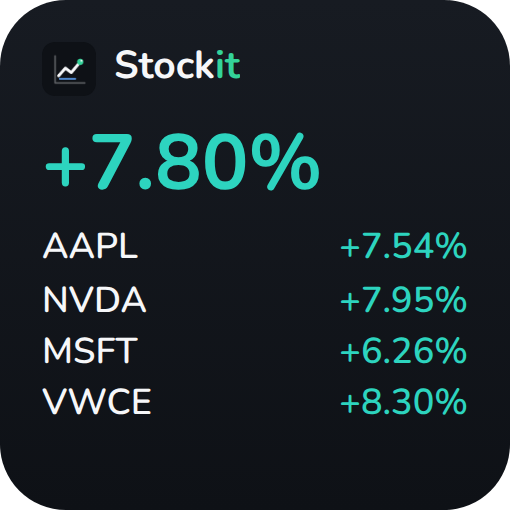
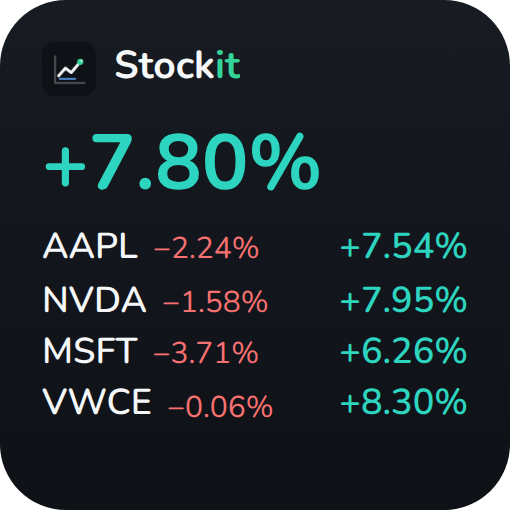
Stockit 1.23.0: the month's change beside each widget ticker

diff --git a/Stockit.js b/Stockit.js
@@ -30,7 +30,7 @@
  */
 
 // This build's version. When releasing, bump it and add a matching entry to releases.json.
-const VERSION = '1.22.0';
+const VERSION = '1.23.0';
 const APP_ID = 'stockit';   // unique per app, never changes
 const REPO_RAW = 'https://raw.githubusercontent.com/gadominas/StockIt/main/';
 const SCRIPT_FILE = 'Stockit.js';   // the script's file name in the repository
@@ -275,7 +275,7 @@ const write = (n, v) => {
 
 // Defaults first, saved choices on top. Loaded here, before the app and widget branches.
 const settings = Object.assign(
-  { tab: "own", sort: "value", range: "1y", addTo: "watch", flashFold: {}, ideasFold: {}, insiders: true, checkIntro: 0, aiStrat: true, privacy: false, briefSeen: 0,   // briefSeen: the briefing you've moved on from, shown folded   // privacy: your amounts hidden, for showing the app to someone   // aiStrat: suggested strategies refresh on their own    // remembered picks; flashFold: symbol → newest headline time when folded
+  { tab: "own", sort: "value", range: "1y", addTo: "watch", flashFold: {}, ideasFold: {}, insiders: true, widgetTrend: "1m",   // widgetTrend: the longer change beside each widget ticker (1w, 2w, 1m, 3m, off) checkIntro: 0, aiStrat: true, privacy: false, briefSeen: 0,   // briefSeen: the briefing you've moved on from, shown folded   // privacy: your amounts hidden, for showing the app to someone   // aiStrat: suggested strategies refresh on their own    // remembered picks; flashFold: symbol → newest headline time when folded
     refreshOnOpen: true, widgetMoney: false, homeCur: "auto",   // homeCur: the currency your money is shown in (auto: your biggest holdings')                                    // Portfolio
     newsYahoo: true, newsWeb: true, crowd: true,                                // News and signals
     style: "balanced",                                                          // AI advice: cautious, balanced, adventurous
@@ -1906,7 +1906,7 @@ function clientState() {
       theme: settings.theme, density: settings.density, font: settings.font, textSize: settings.textSize,
       speechEngine: settings.speechEngine || "device", voiceURI: settings.voiceURI || "", voiceRate: settings.voiceRate || 1, voicePitch: settings.voicePitch || 1,
       voiceGender: settings.voiceGender || "all", ttsModel: settings.ttsModel || "gpt-4o-mini-tts", ttsVoice: settings.ttsVoice || "coral",
-      ttsInstructions: settings.ttsInstructions || "", hasOpenAI: !!keyFor("openai"), shareUsage: !!settings.shareUsage, openInReader: settings.openInReader !== false, readerProxy: settings.readerProxy !== false, insiders: settings.insiders !== false, quiverErr: settings.quiverErr || "", flashFold: settings.flashFold || {}, ideasFold: settings.ideasFold || {}, checkIntro: settings.checkIntro || 0, aiStrat: settings.aiStrat !== false, privacy: !!settings.privacy, briefSeen: settings.briefSeen || 0,
+      ttsInstructions: settings.ttsInstructions || "", hasOpenAI: !!keyFor("openai"), shareUsage: !!settings.shareUsage, openInReader: settings.openInReader !== false, readerProxy: settings.readerProxy !== false, insiders: settings.insiders !== false, widgetTrend: settings.widgetTrend || "1m", quiverErr: settings.quiverErr || "", flashFold: settings.flashFold || {}, ideasFold: settings.ideasFold || {}, checkIntro: settings.checkIntro || 0, aiStrat: settings.aiStrat !== false, privacy: !!settings.privacy, briefSeen: settings.briefSeen || 0,
     },
     ttsModels: settings.ttsModels || null,
     lastRefresh: settings.lastRefresh, palettes: PALETTES, version: VERSION,
@@ -2025,10 +2025,11 @@ async function handle(m) {
       if (m.k === "flashFold" && m.v && typeof m.v === "object" && !Array.isArray(m.v))   // folded Flash cards, kept for stocks you follow
         settings.flashFold = Object.fromEntries(Object.entries(m.v).filter(([s, t]) => stocks.some(x => x.s === s) && isFinite(t)));
       if (m.k === "homeCur" && (m.v === "auto" || HOME_CURS.includes(m.v))) settings.homeCur = m.v;
+      if (m.k === "widgetTrend") settings.widgetTrend = ["1w", "2w", "1m", "3m", "off"].includes(m.v) ? m.v : "1m";
       if (m.k === "checkIntro" && isFinite(m.v)) settings.checkIntro = Math.max(0, Math.min(99, +m.v));
       write("settings", settings);
       if (m.k === "homeCur") { await loadFx().catch(() => {}); push(); }
-      if (m.k === "widgetMoney" || m.k === "homeCur" || m.k === "privacy") saveWidget(widgetSnapshot());
+      if (m.k === "widgetMoney" || m.k === "homeCur" || m.k === "privacy" || m.k === "widgetTrend") saveWidget(widgetSnapshot());
       return;
     case "cfg": {
       if (m.k === "*") settings.cfg = {}; else setCfg(m.k, m.v);
@@ -3321,6 +3322,8 @@ function clientApp() {
       <div class="srow"><div class="grow"><b>Show your money in</b><small class="muted">Portfolio value, today and gains, here and in the widget. Stocks in other currencies are converted at today's rate. ${S.fx && S.fx.choice === "auto" ? `Auto uses the currency most of your money is in (now ${esc(HOME())}).` : ""}</small></div>
         <select id="homeCur" class="cursel" aria-label="Currency">${[["auto", "Auto"]].concat(((S.fx && S.fx.curs) || []).map(c2 => [c2, c2])).map(([v, l]) => `<option value="${v}" ${(S.fx && S.fx.choice) === v ? "selected" : ""}>${l}</option>`).join("")}</select></div>
       ${sw("widgetMoney", "Show portfolio value in the widget", "Off: the widget shows only percentages, never amounts")}
+      <div class="lk-row"><span class="lk-l">Beside each widget ticker</span><div class="seg wide">${[["1w", "1 week"], ["2w", "2 weeks"], ["1m", "1 month"], ["3m", "3 months"], ["off", "Off"]].map(([v, l]) => `<button class="${(S.settings.widgetTrend || "1m") === v ? "on" : ""}" data-act="wtrend" data-v="${v}">${l}</button>`).join("")}</div>
+        <small class="muted">The change over this time, small, next to today's change. The widget shows it at its next refresh.</small></div>
       ${widgetPicksHTML()}
       <h3 class="sec">News and signals</h3>
       ${sw("newsYahoo", "Yahoo Finance headlines", "Business news about each stock")}
@@ -4264,6 +4267,7 @@ function clientApp() {
     switch (act) {
       case "tab": arrange = false; if (tab === "own" && v !== "own" && S.briefing && S.settings.briefSeen !== S.briefing.at) { S.settings.briefSeen = S.briefing.at; send("set", { k: "briefSeen", v: S.briefing.at }); } if (v !== "own") { briefFold = null; briefFull = false; } tab = v; if (v !== "ideas") send("set", { k: "tab", v }); else if (S.settings.hasKey) send("stratdue", {}); render(); window.scrollTo(0, 0); break;
       case "sort": sort = v; send("set", { k: "sort", v }); render(); break;
+      case "wtrend": S.settings.widgetTrend = v; send("set", { k: "widgetTrend", v }); renderCfg(); break;
       case "arrange": if (v === "1") startArrange(); else { arrange = false; render(); } break;
       case "mark": { const y = byS(v), k = t.dataset.k; if (!y) break; y[k] = !y[k]; send("mark", { s: v, k, v: y[k] }); if (openSym) renderDetail(); render(); window.toast(k === "pin" ? (y[k] ? `${v} pinned to the top` : `${v} unpinned`) : k === "wpin" ? (y[k] ? `${v} is on the widget` : `${v} left the widget`) : (y[k] ? `${v} highlighted` : `${v} highlight removed`)); break; }
       case "refresh": if (!progress) send("refresh", { force: true }); break;
@@ -5198,11 +5202,21 @@ window.__boot = function (st) {
 // ---------- home-screen widget: Stockit's content for the shared frame below ----------
 // The snapshot the widget reads (saveWidget): the day's move, biggest movers, the ✦ briefing headline, and the
 // portfolio value only when "Show portfolio value in the widget" is on. Saved after refreshes, edits and new AI text.
+// The longer change shown beside each widget ticker: since the close about this many calendar days ago
+const WTREND = { "1w": [7, "1W"], "2w": [14, "2W"], "1m": [30, "1M"], "3m": [91, "3M"], off: null };
+function changeOver(m, t) {
+  const p = (m && m.pts) || [];
+  if (!t || p.length < 2) return null;
+  const price = m.price != null ? m.price : p[p.length - 1][1], lastDay = p[p.length - 1][0];
+  let v = null;
+  for (const [d, c] of p) { if (d <= lastDay - t[0]) v = c; else break; }
+  return v ? (price / v - 1) * 100 : null;
+}
 function widgetSnapshot(pricesAt) {
   const tot = totals()[0] || null;
   const all = stocks.map(x => {
     const m = market[x.s] || {}, sg = sigFor(x.s);
-    return { s: x.s, own: x.list === "own", chg: dayPct(m), price: m.price, cur: m.cur || "", sig: sg ? sg.signal : "", wpin: !!x.wpin };
+    return { s: x.s, own: x.list === "own", chg: dayPct(m), price: m.price, cur: m.cur || "", sig: sg ? sg.signal : "", wpin: !!x.wpin, tr: changeOver(m, WTREND[settings.widgetTrend || "1m"]) };
   });
   const rows = all.filter(r => r.chg != null);
   const own = rows.filter(r => r.own), base = own.length ? own : rows;
@@ -5216,6 +5230,7 @@ function widgetSnapshot(pricesAt) {
     value: tot && settings.widgetMoney && !settings.privacy ? { v: tot.value, day: tot.day, cur: tot.cur } : null,   // privacy mode hides it here too
     movers: (pinned.length ? pinned : best).slice(0, 8),
     pick: pinned.length ? "pinned" : own.length ? "best-own" : "best-watch",
+    trendLabel: (WTREND[settings.widgetTrend || "1m"] || [])[1] || "",
     private: !!settings.privacy,   // privacy mode (the eye, or a Back Tap shortcut): amounts hidden on the widget too
     headline: b && Date.now() - b.at < 48 * 3600e3 ? b.headline : "",
     prices: pricesAt || settings.lastRefresh || 0,
@@ -5247,11 +5262,12 @@ async function widgetModel(param, family) {
   const hide = d.private || /priv|hide|mask/i.test(String(param || ""));
   const cells = (d.movers || []).map(r => ({ s: r.s.replace(/\.(DE|F|L|PA|AS|MI|TO|V|SW|ST|OL|CO|HE|VI|BR|MC|LS|T|HK|AX)$/, "").slice(0, 8),
     pct: wPct(r.chg), tone: tone(r.chg), price: r.price != null ? (MINOR[r.cur] ? r.price.toFixed(2) + "p" : wMoney(r.price, r.cur)) : "",
-    sig: r.sig ? r.sig[0].toUpperCase() + r.sig.slice(1) : "" }));
+    sig: r.sig ? r.sig[0].toUpperCase() + r.sig.slice(1) : "", tr: r.tr != null && d.trendLabel ? wPct(r.tr) : "", trTone: tone(r.tr) }));
   const kicker = d.scope === "own" ? "Your portfolio today" : "Your watchlist today";
-  const footer = d.prices ? "Prices " + wWhen(d.prices) : "";
+  let footer = d.prices ? "Prices " + wWhen(d.prices) : "";
   const accessory = { glyph: d.dayPct >= 0 ? "▲" : "▼", inline: `${d.dayPct >= 0 ? "▲" : "▼"} ${wPct(d.dayPct)} today`, value: d.dayPct == null ? "–" : (d.dayPct >= 0 ? "+" : "") + d.dayPct.toFixed(1) };
-  const pickNote = d.pick === "pinned" ? "Your widget stocks" : d.pick === "best-own" ? "Best today" : "Best on your watchlist";
+  const pickNote = (d.pick === "pinned" ? "Your widget stocks" : d.pick === "best-own" ? "Best today" : "Best on your watchlist") + (d.trendLabel ? ` · ${d.trendLabel} and today` : "");
+  if (d.trendLabel && cells.some(c => c.tr)) footer += `  ·  small: ${({ "1W": "1 week", "2W": "2 weeks", "1M": "1 month", "3M": "3 months" })[d.trendLabel]}`;
   const headline = d.headline && family === "large" ? d.headline : "";
   if (d.value && !hide) {
     return { badge: wPct(d.dayPct), badgeTone: tone(d.dayPct), kicker, value: wMoney(d.value.v, d.value.cur, true),
@@ -5454,6 +5470,7 @@ function wCell(stack, c, o) {
   if (o.width) row.size = new Size(o.width, o.h || 0);
   wText(row, c.s, o.size, 'semi', 'ink');
   if (o.price && c.price) { row.addSpacer(6); wText(row, c.price, o.size - 1.5, 'reg', 'muted'); }
+  if (c.tr) { row.addSpacer(o.price ? 8 : 5); wText(row, c.tr, o.size - 2, 'reg', c.trTone); }   // the longer change, smaller
   row.addSpacer();
   if (o.sig && c.sig) { wText(row, '✦ ' + c.sig, o.size - 1.5, 'reg', 'muted'); row.addSpacer(8); }
   wText(row, c.pct, o.size, 'semi', c.tone);

diff --git a/README.md b/README.md
@@ -10,7 +10,7 @@ Your stocks, the news around them and a plain-English story of what's going on.<
 
 An iPhone and iPad app for [Scriptable](https://scriptable.app). One file. No account, no server, no subscription.
 
-[![Version](https://img.shields.io/badge/version-1.22.0-1d4ed8)](CHANGELOG.md)
+[![Version](https://img.shields.io/badge/version-1.23.0-1d4ed8)](CHANGELOG.md)
 [![Platform](https://img.shields.io/badge/iOS-Scriptable-0f172a)](https://apps.apple.com/app/scriptable/id1405459188)
 [![AI](https://img.shields.io/badge/AI-Claude%20or%20OpenAI%2C%20optional-8b5cf6)](#ai-on-your-terms)
 [![Not financial advice](https://img.shields.io/badge/not-financial%20advice-b91c1c)](#not-financial-advice)
@@ -349,7 +349,7 @@ Choose the voice in **Settings › Listening**:
 
 **Which stocks it shows.** Pin up to 8 stocks to the widget, from your portfolio or your watchlist: tap **▦** in **Arrange** (next to the stock count, or long-press a stock), or **▦ Show on the widget** on a stock's page. Pinned stocks show in your own order. With nothing pinned, the widget shows your best performers today from your portfolio, or from your watchlist if you own nothing yet. **Settings › Portfolio › Stocks on the widget** lists the pinned ones; tap one to take it off.
 
-**Compact.** The medium widget fits 8 tickers in two columns under one summary line; the small one 4; the large one 8 with their price and ✦ view, under today's move and the ✦ briefing headline.
+**Compact.** The medium widget fits 8 tickers in two columns under one summary line; the small one 4; the large one 8 with their price and ✦ view, under today's move and the ✦ briefing headline. Beside each ticker, in smaller type, is its change over the last month (or 1 week, 2 weeks, 3 months, or nothing: **Settings › Portfolio › Beside each widget ticker**); today's change stays on the right.
 
 **Amounts.** The widget shows percentages only, never amounts of money, unless you turn on **Settings › Portfolio › Show portfolio value in the widget**. Privacy mode (the eye) hides them on the widget too.
 
